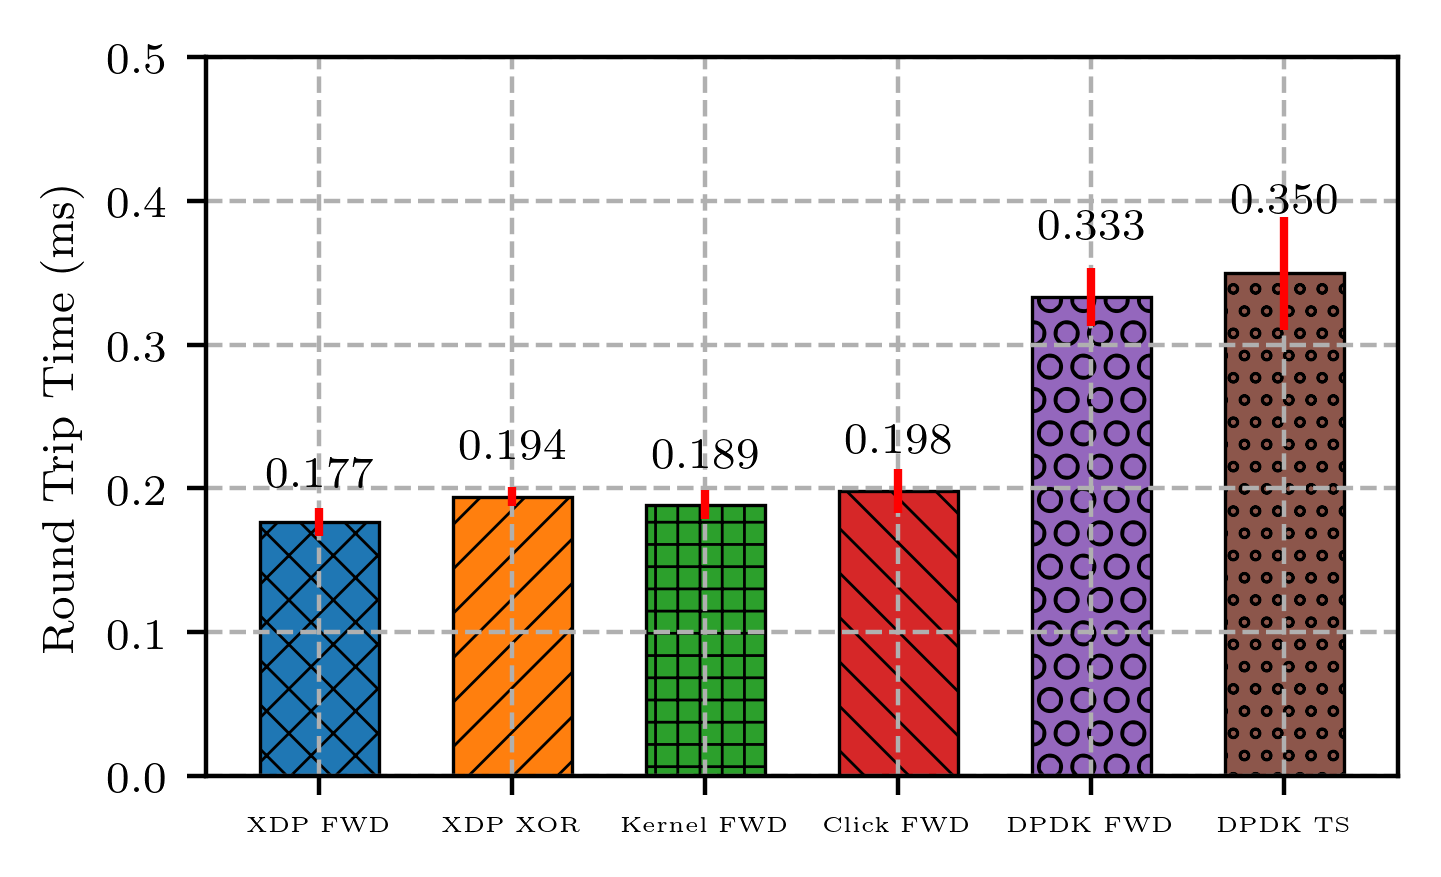
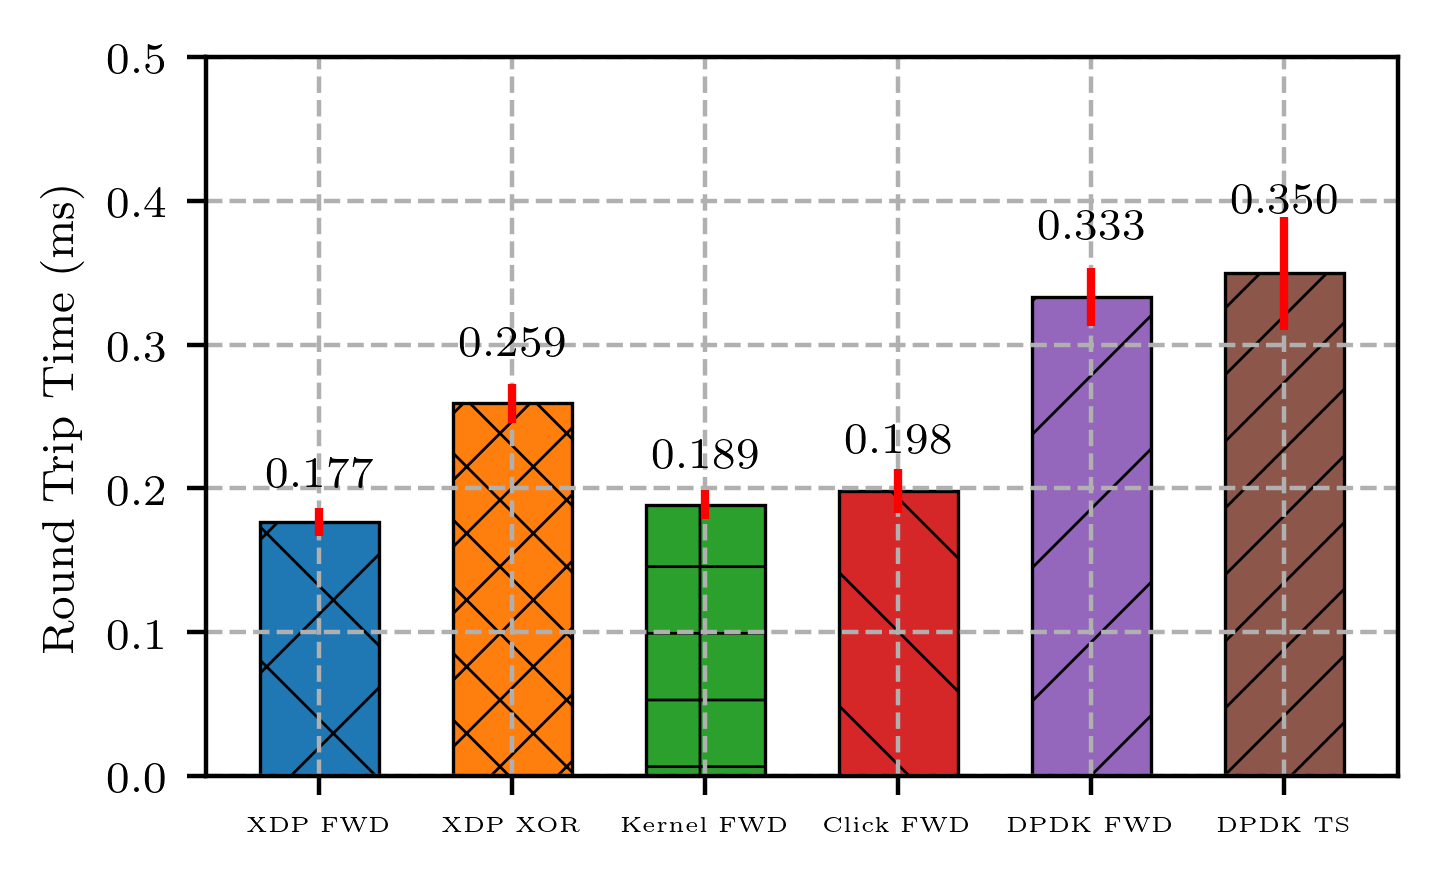
<result>: Add results of XDP XOR for UDP 1400 bytes
- The XOR-able bytes are limited to 128 bytes currently.

diff --git a/evaluation/round_trip_time/plot.py b/evaluation/round_trip_time/plot.py
@@ -36,7 +36,7 @@ def save_fig(fig, path, fmt=FIG_FMT):
                 bbox_inches='tight', dpi=400, format=fmt)
 
 
-def calc_rtt_lst(subdir, csv_tpl, var_lst):
+def calc_rtt_lst(subdir, csv_tpl, var_lst, grp_step=10):
     rtt_result_lst = list()
     for var in var_lst:
         tmp_list = list()
@@ -44,7 +44,16 @@ def calc_rtt_lst(subdir, csv_tpl, var_lst):
         csv_path = os.path.join(subdir, csv_name)
         rtt_arr = np.genfromtxt(csv_path, delimiter=',',
                                 usecols=list(range(0, TOTAL_PACK_NUM))) / 1000.0
+
         rtt_arr = rtt_arr[:, WARM_UP_NUM:]
+        # Calc hwci step by step to check if more measurements should be
+        # performed
+        print('Current csv template: %s' % csv_tpl)
+        for step in range(grp_step, rtt_arr.shape[0] + 1, grp_step):
+            print('Current group step: %d' % step)
+            step_rtt_arr = rtt_arr[:step, :]
+            print('HWCI: %.10f'
+                  % calc_hwci(np.average(step_rtt_arr, axis=1), 0.99))
         # Check nagative values
         signs = np.sign(rtt_arr).flatten()
         neg_sign = -1
@@ -55,6 +64,7 @@ def calc_rtt_lst(subdir, csv_tpl, var_lst):
             # Average value and confidence interval
             (np.average(tmp_list), calc_hwci(tmp_list, confidence=0.99))
         )
+    print('Final result list: ')
     print(rtt_result_lst)
     return rtt_result_lst
 
@@ -80,12 +90,12 @@ def plot_ipd():
     cmap = cm.get_cmap('tab10')
     techs = ['udp_rtt_' + x +
              '_%sms.csv' for x in (
-                 'xdp_fwd', 'xdp_xor', 'lkfwd', 'click_fwd', 'dpdk_fwd', 'dpdk_appendts')
+                 'xdp_fwd', 'xdp_xor_1400B', 'lkfwd', 'click_fwd', 'dpdk_fwd', 'dpdk_appendts')
              ]
     xtick_labels = ('XDP FWD', 'XDP XOR', 'Kernel FWD', 'Click FWD',
-                    'DPDK FWD', 'DPDK TS', 'Click FWD')
+                    'DPDK FWD', 'DPDK TS')
     colors = [cmap(x) for x in range(len(techs))]
-    hatch_patterns = ('xxx', '///', '+++', '\\\\\\', 'OO', 'ooo', '...')
+    hatch_patterns = ('x', 'xx', '+', '\\', '/', '//')
     bar_width = 0.08
     gap = 0.05
     fig, rtt_ax = plt.subplots()

diff --git a/shared_lib/xdp_util.h b/shared_lib/xdp_util.h
@@ -50,6 +50,8 @@ static inline uint8_t rewrite_mac(void* data, uint64_t nh_off, void* data_end,
     uint8_t* src_mac, uint8_t* dst_mac);
 
 static inline uint8_t ip_cksum(void* data, uint16_t ip_h_off, void* data_end);
+static inline uint8_t udp_cksum(
+    void* data, uint16_t ip_h_off, uint16_t udp_h_off, void* data_end);
 
 /********************
  *  Implementation  *
@@ -117,14 +119,21 @@ static inline uint8_t ip_cksum(void* data, uint16_t ip_h_off, void* data_end)
         return OPT_SUC;
 }
 
-static inline uint8_t udp_cksum(void* data, uint16_t udp_h_off, void* data_end)
+static inline uint8_t udp_cksum(
+    void* data, uint16_t ip_h_off, uint16_t udp_h_off, void* data_end)
 {
+        struct iphdr* iph = data + ip_h_off;
+        if ((void*)&iph[1] > data_end) {
+                return OPT_FAIL;
+        }
+        iph->check = 0;
         struct udphdr* udph = data + udp_h_off;
         if (udph + sizeof(struct udphdr) > data_end) {
                 return OPT_FAIL;
         }
-        // TODO: Calculate the UDP checksum properly
-        udph->check = htons(0);
+        udph->check = 0;
+        /* MARK: generic UDP checksum is disabled because of eBPF verifier */
+        // udph->check = htons(cksum((uint8_t*)iph, 272, 1));
         return OPT_SUC;
 }
 

diff --git a/io_visor/vnf/udp_xor/xdp_udp_xor.c b/io_visor/vnf/udp_xor/xdp_udp_xor.c
@@ -132,8 +132,8 @@ uint16_t ingress_xdp_redirect(struct xdp_md* xdp_ctx)
         REPEAT_OPT
 
         /*if ((pt_pload + sizeof(pt_pload) <= data_end)) {*/
-                /**pt_pload = (*pt_pload ^ 0x3);*/
-                /*pt_pload += 1;*/
+        /**pt_pload = (*pt_pload ^ 0x3);*/
+        /*pt_pload += 1;*/
         /*}*/
 
         // for (key = 0; key < 1; ++key) {
@@ -149,11 +149,10 @@ uint16_t ingress_xdp_redirect(struct xdp_md* xdp_ctx)
 #endif
         /* Recalculate the IP and UDP header checksum */
         nh_off = ETH_HLEN;
-        if (ip_cksum(data, nh_off, data_end) == OPT_FAIL) {
+        if (udp_cksum(data, nh_off, nh_off + 20, data_end) == OPT_FAIL) {
                 return XDP_DROP;
         }
-        nh_off = ETH_HLEN + 20;
-        if (udp_cksum(data, nh_off, data_end) == OPT_FAIL) {
+        if (ip_cksum(data, nh_off, data_end) == OPT_FAIL) {
                 return XDP_DROP;
         }
 

diff --git a/shared_lib/cksum.h b/shared_lib/cksum.h
@@ -16,6 +16,7 @@
 
 /**
  * @brief Calculate the checksum for IP/TCP/UDP headers
+ *        type: 0->IP, 1->UDP, 2->TCP
  *
  * @return The checksum with unsigned integer format.
  */

diff --git a/io_visor/vnf/udp_xor/xdp_udp_xor.py b/io_visor/vnf/udp_xor/xdp_udp_xor.py
@@ -3,8 +3,8 @@
 # vim:fenc=utf-8
 
 """
-About: XOR UDP payload
 
+About: XOR UDP payload
 Email: xianglinks@gmail.com
 
 Ref  : - bcc/example/networking/xdp
